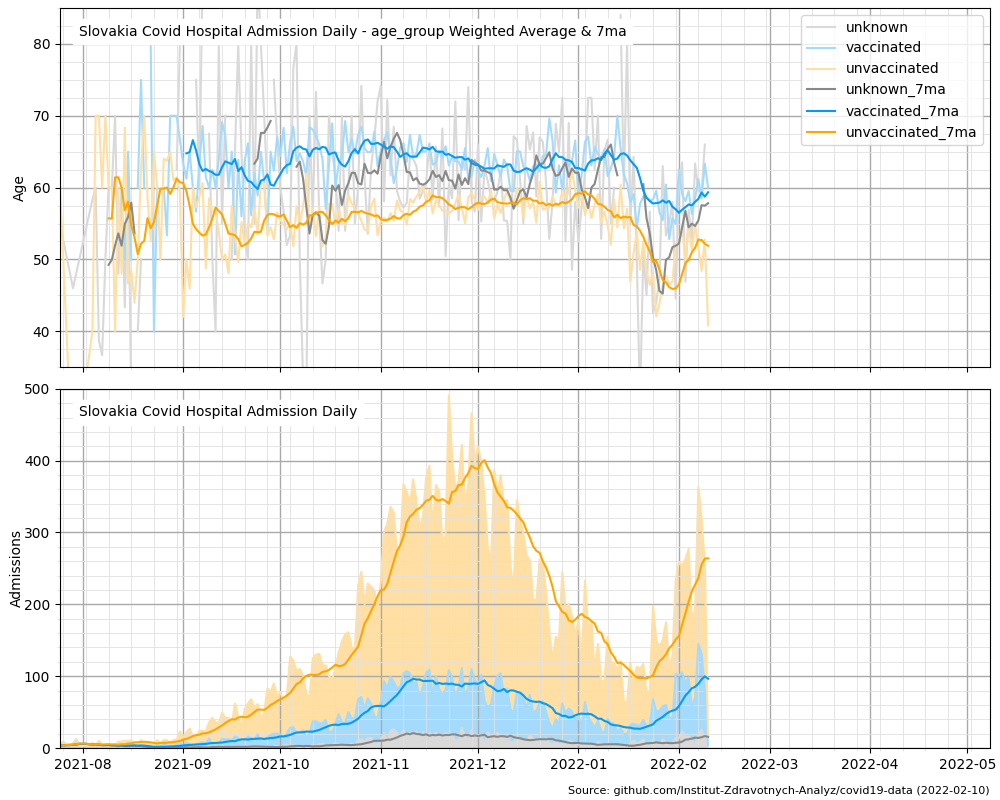
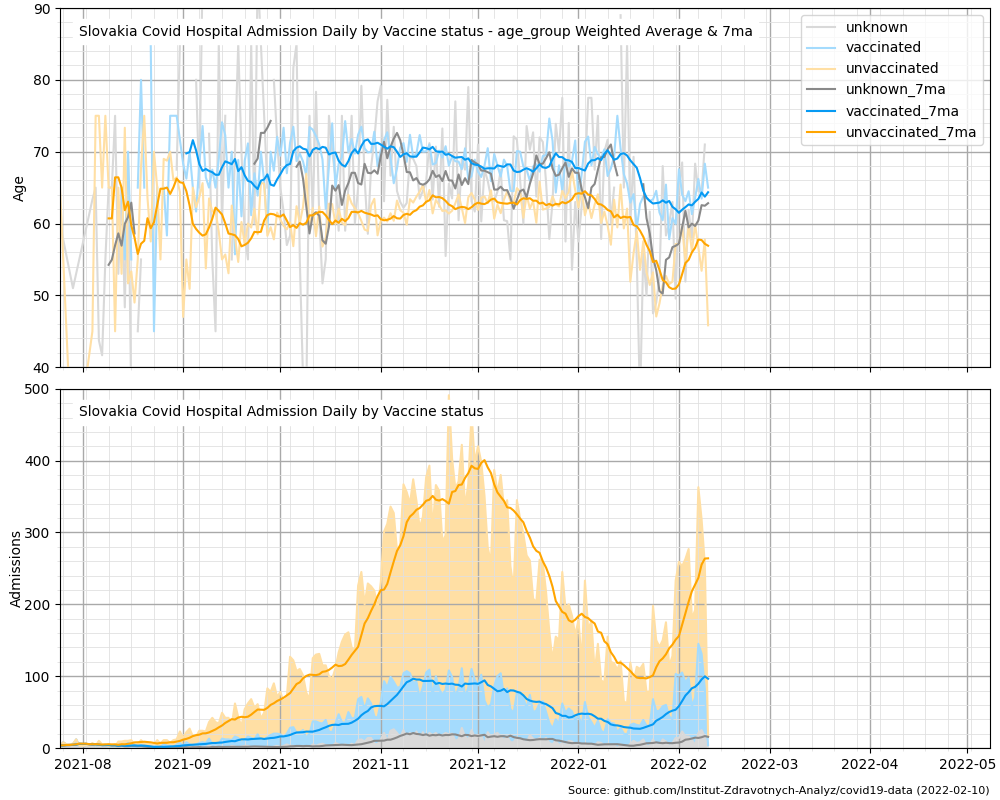
Major update 2022-02-11 Added new script Daily Slovakia Covid Hospital Admissions and age_group Weighted Average Updated Admissions_Age_WAverage_by_Vaccine_Daily.py Updated workflow daily-figures-update.yaml Added new graph figures

diff --git a/Hospitalizations/Admissions_Age_WAverage_Basic_Daily.py b/Hospitalizations/Admissions_Age_WAverage_Basic_Daily.py
@@ -1,0 +1,108 @@
+import datetime
+import requests
+import numpy as np
+import pandas as pd
+import matplotlib.pyplot as plt
+import matplotlib.dates as mdates
+from matplotlib.dates import MO
+import matplotlib.ticker as mticker
+
+uri = 'https://raw.githubusercontent.com/Institut-Zdravotnych-Analyz/covid19-data/main/Hospitals/OpenData_Slovakia_Covid_Hospital_AdmissionDischarge.csv'
+
+def is_uri_ok(uri_string, print_error=True):
+  try:
+    r = requests.head(uri_string)
+    r.raise_for_status()
+    return True
+  except requests.exceptions.RequestException as error:
+    if print_error:
+      print(error)
+    pass
+  return False
+
+if is_uri_ok(uri):
+  raw = pd.read_csv(uri, sep=';', index_col=0) # error_bad_lines=False
+  
+  release_date = raw['Date'].values[0]
+  
+  # --- Set Data range -> start from date
+  # row_no = raw.loc[raw['Date'] == '2021-08-01'].last_valid_index()
+  # raw = raw.drop(raw.index[row_no:])
+
+  # --- Convert date to datetime
+  raw['Date'] = raw['Date'].apply(pd.to_datetime)
+
+  # --- Cleansing raw
+  raw['Vaccinated'] = raw['Vaccinated'].fillna(value='unknown') # Replace NaN with word unknown
+  #raw['age_group'] = raw['age_group'].fillna(value=55) # Replace NaN with value 55 (average age of unvaccinated COVID-19 patient) - currently in use in Daily admissions axis only
+  raw['age_group'] = raw['age_group']+5 # Middle value of age_group (e.g. age_group 0 = 0-10 age --> will be 5)
+  raw = raw.loc[~(raw['Admissions'] == 0)] # Remove unnecessary zero admissions
+
+  # --- Daily Admissions - Axis 1
+  df = pd.DataFrame()
+  df['Admissions'] = raw['Admissions'].groupby(raw['Date']).sum()
+  df['Admissions_7ma'] = df['Admissions'].rolling(7, closed='left').mean()
+
+  # --- Daily weighten average age_group - Axis 0
+  raw = raw.dropna(subset=['age_group']) # Additional cleansing before weighten average --> Remove NaN for proper calculation
+  df['age_group_WAverage'] = raw.groupby(raw['Date']).apply(lambda x: np.average(x.age_group, weights=x.Admissions))
+  df['age_group_WAverage_7ma'] = df['age_group_WAverage'].rolling(7, closed='left').mean()
+
+
+  # --- Plot figure
+  fig, axs = plt.subplots(2, 1, figsize=(10, 8))
+  plt.subplots_adjust(left=0.06, right=0.99, bottom= 0.065, top=0.99, hspace=0.06)
+
+  # Common axis settings:
+  for ax in axs:
+    ax.set_prop_cycle(color=['#FFC1C2','#dc0002'])
+    # Grid, major and minor ticks settings
+    ax.grid(visible=True, which='both')
+    ax.minorticks_on()
+    ax.grid(which='major', color='#a9a9a9', linewidth=1)
+    ax.grid(which='minor', color='#e0e0e0', linewidth=0.6)
+    ax.tick_params(which='minor', color='#e0e0e0')
+    ax.xaxis.set_major_locator(mdates.MonthLocator(interval=1))
+    ax.xaxis.set_major_formatter(mdates.DateFormatter('%Y-%m'))
+    ax.xaxis.set_minor_locator(mdates.WeekdayLocator(byweekday=MO))
+    # Format x tick labels
+    for label in ax.get_xticklabels(which='major'):
+      label.set(rotation=0, horizontalalignment='center')
+    # Set x axis range
+    xlimoOffset = datetime.timedelta(days=7)
+    ax.set_xlim(datetime.datetime(2021, 8, 1) - xlimoOffset, datetime.datetime(2022, 5, 1) + xlimoOffset)
+  
+  # 0. Axis - Daily weighten average age
+  ax = axs[0]
+  ax.plot(df['age_group_WAverage'], label='Daily')
+  ax.plot(df['age_group_WAverage_7ma'], label='Daily_7ma')
+  ax.set_title('Slovakia Covid Hospital Admission Daily - age_group Weighted Average & 7ma', loc='left', y=0.9, x=0.02, fontsize='medium', backgroundcolor='white')
+  ax.set_xticklabels([])
+  ax.yaxis.set_major_locator(mticker.MultipleLocator(10))
+  ax.yaxis.set_minor_locator(mticker.MultipleLocator(2))
+  # ax.legend(loc='upper right')
+  ax.set_xlabel(None)
+  ax.set_ylabel("Age")
+  ax.set_ylim(40, 90)
+
+  # 1. Axis - Daily admissions
+  ax = axs[1]
+  ax.plot(df['Admissions'], label='Admissions')
+  ax.plot(df['Admissions_7ma'], label='Admissions_7ma')
+  ax.fill_between(x=df['Admissions'].index, y1=df['Admissions'].values)
+  ax.set_title('Slovakia Covid Hospital Admission Daily & 7ma', loc='left', y=0.9, x=0.02, fontsize='medium', backgroundcolor='white')
+  ax.yaxis.set_major_locator(mticker.MultipleLocator(100))
+  ax.yaxis.set_minor_locator(mticker.MultipleLocator(20))
+  ax.set_xlabel(None)
+  ax.set_ylabel("Admissions", labelpad=0)
+  ax.set_ylim(0, 500)
+
+  # Note inside plot
+  ax.annotate('Source: github.com/Institut-Zdravotnych-Analyz/covid19-data (' + str(release_date) + ')',
+                xy = (1.0, -0.12),
+                xycoords='axes fraction',
+                ha='right',
+                va="center",
+                fontsize=8)
+
+  plt.savefig('./res/Hospitalizations/Admissions_Age_WAverage_Basic_Daily.png')

diff --git a/Hospitalizations/Admissions_Age_WAverage_by_Vaccine_Daily.py b/Hospitalizations/Admissions_Age_WAverage_by_Vaccine_Daily.py
@@ -35,6 +35,7 @@ if is_uri_ok(uri):
   # --- Cleansing raw
   raw['Vaccinated'] = raw['Vaccinated'].fillna(value='unknown') # Replace NaN with word unknown
   #raw['age_group'] = raw['age_group'].fillna(value=55) # Replace NaN with value 55 (average age of unvaccinated COVID-19 patient) - currently in use in Daily admissions axis only
+  raw['age_group'] = raw['age_group']+5 # Middle value of age_group (e.g. age_group 0 = 0-10 age --> will be 5)
 
   # --- Sum Vaccine status (True/False) on Admissions - Axis 0
   p = pd.pivot_table(raw, index=['Date', 'age_group'] , columns=['Vaccinated'], values='Admissions', aggfunc=np.sum, fill_value=0, dropna=False)
@@ -92,7 +93,7 @@ if is_uri_ok(uri):
 
   # Common axis settings:
   for ax in axs:
-    ax.set_prop_cycle(color=['#D9D9D9','#A4DBFD','#FFDFA4','#898989','#069af3','#ffa500'])
+    ax.set_prop_cycle(color=['#D9D9D9','#A4DBFD','#FFDFA4','#6b6b6b','#069af3','#ffa500'])
     # Grid, major and minor ticks settings
     ax.grid(visible=True, which='both')
     ax.minorticks_on()
@@ -117,14 +118,14 @@ if is_uri_ok(uri):
   ax.plot(result['unknown_7ma'], label='unknown_7ma')
   ax.plot(result['vaccinated_7ma'], label='vaccinated_7ma')
   ax.plot(result['unvaccinated_7ma'], label='unvaccinated_7ma')
-  ax.set_title('Slovakia Covid Hospital Admission Daily - age_group Weighted Average & 7ma', loc='left', y=0.9, x=0.02, fontsize='medium', backgroundcolor='white')
+  ax.set_title('Slovakia Covid Hospital Admission Daily by Vaccine status - age_group Weighted Average & 7ma', loc='left', y=0.9, x=0.02, fontsize='medium', backgroundcolor='white')
   ax.set_xticklabels([])
   ax.yaxis.set_major_locator(mticker.MultipleLocator(10))
-  ax.yaxis.set_minor_locator(mticker.MultipleLocator(2.5))
+  ax.yaxis.set_minor_locator(mticker.MultipleLocator(2))
   ax.legend(loc='upper right')
   ax.set_xlabel(None)
   ax.set_ylabel("Age")
-  ax.set_ylim(35, 85)
+  ax.set_ylim(40, 90)
 
   # 1. Axis - Daily admissions
   ax = axs[1]
@@ -137,7 +138,7 @@ if is_uri_ok(uri):
   ax.plot(resultAD['unknown_adm_7ma'], label='unknown_7ma')
   ax.plot(resultAD[['vaccinated_adm_7ma', 'unknown_adm_7ma']].sum(axis=1), label='vaccinated_7ma')
   ax.plot(resultAD[['unvaccinated_adm_7ma', 'unknown_adm_7ma', 'vaccinated_adm_7ma']].sum(axis=1), label='unvaccinated_7ma')
-  ax.set_title('Slovakia Covid Hospital Admission Daily', loc='left', y=0.9, x=0.02, fontsize='medium', backgroundcolor='white')
+  ax.set_title('Slovakia Covid Hospital Admission Daily by Vaccine status', loc='left', y=0.9, x=0.02, fontsize='medium', backgroundcolor='white')
   ax.yaxis.set_major_locator(mticker.MultipleLocator(100))
   ax.yaxis.set_minor_locator(mticker.MultipleLocator(20))
   ax.set_xlabel(None)

diff --git a/README.md b/README.md
@@ -1,5 +1,5 @@
 # slovakia-covid19-data-py-graphs
-[Version 1.0.4][changelog]
+[Version 1.0.5][changelog]
 
 Python graphs of [open data sets](https://github.com/Institut-Zdravotnych-Analyz/covid19-data) related to the covid19 pandemic in Slovakia provided by the MoH of Slovakia.
 
@@ -14,6 +14,9 @@ To see all graphs go to "res" folder.
 ![Monthly Slovakia Covid Hospital Ventilated Admissions - age_group Weighted Average](./res/Hospitalizations/Ventilated_Admissions_Age_WAverage_by_Vaccine_Monthly.png)
 
 3. Hospitalizations\Admissions_Age_WAverage_by_Vaccine_Daily.py
-![Daily Slovakia Covid Hospital Admissions and age_group Weighted Average](./res/Hospitalizations/Admissions_Age_WAverage_by_Vaccine_Daily.png)
+![Daily Slovakia Covid Hospital Admissions by Vaccine status and age_group Weighted Average](./res/Hospitalizations/Admissions_Age_WAverage_by_Vaccine_Daily.png)
+
+4. Hospitalizations\Admissions_Age_WAverage_Basic_Daily.py
+![Daily Slovakia Covid Hospital Admissions and age_group Weighted Average](./res/Hospitalizations/Admissions_Age_WAverage_Basic_Daily.png)
 
 [changelog]: ./CHANGELOG.md

diff --git a/CHANGELOG.md b/CHANGELOG.md
@@ -2,6 +2,16 @@
 
 All notable changes to this project will be documented in this file.
 
+## 1.0.5 - 2022-02-11
+
+### Added
+- Added python scripts for Daily Slovakia Covid Hospital Admissions and age_group Weighted Average.
+- Added new graph figures.
+
+### Updated
+- Updated Admissions_Age_WAverage_by_Vaccine_Daily.py - Updated raw data cleansing by changing age_group to middle value, updated y limit and minor ticks on Axis 0
+- Updated workflow daily-figures-update.yaml
+
 ## 1.0.4 - 2022-01-28
 
 ### Updated
@@ -11,7 +21,7 @@ All notable changes to this project will be documented in this file.
 ## 1.0.3 - 2022-01-26
 
 ### Added
-- Added python scripts for Daily Slovakia Covid Hospital Admissions and age_group Weighted Average.
+- Added python scripts for Daily Slovakia Covid Hospital Admissions by Vaccine status and age_group Weighted Average.
 - Added graph figure.
 
 ### Updated
